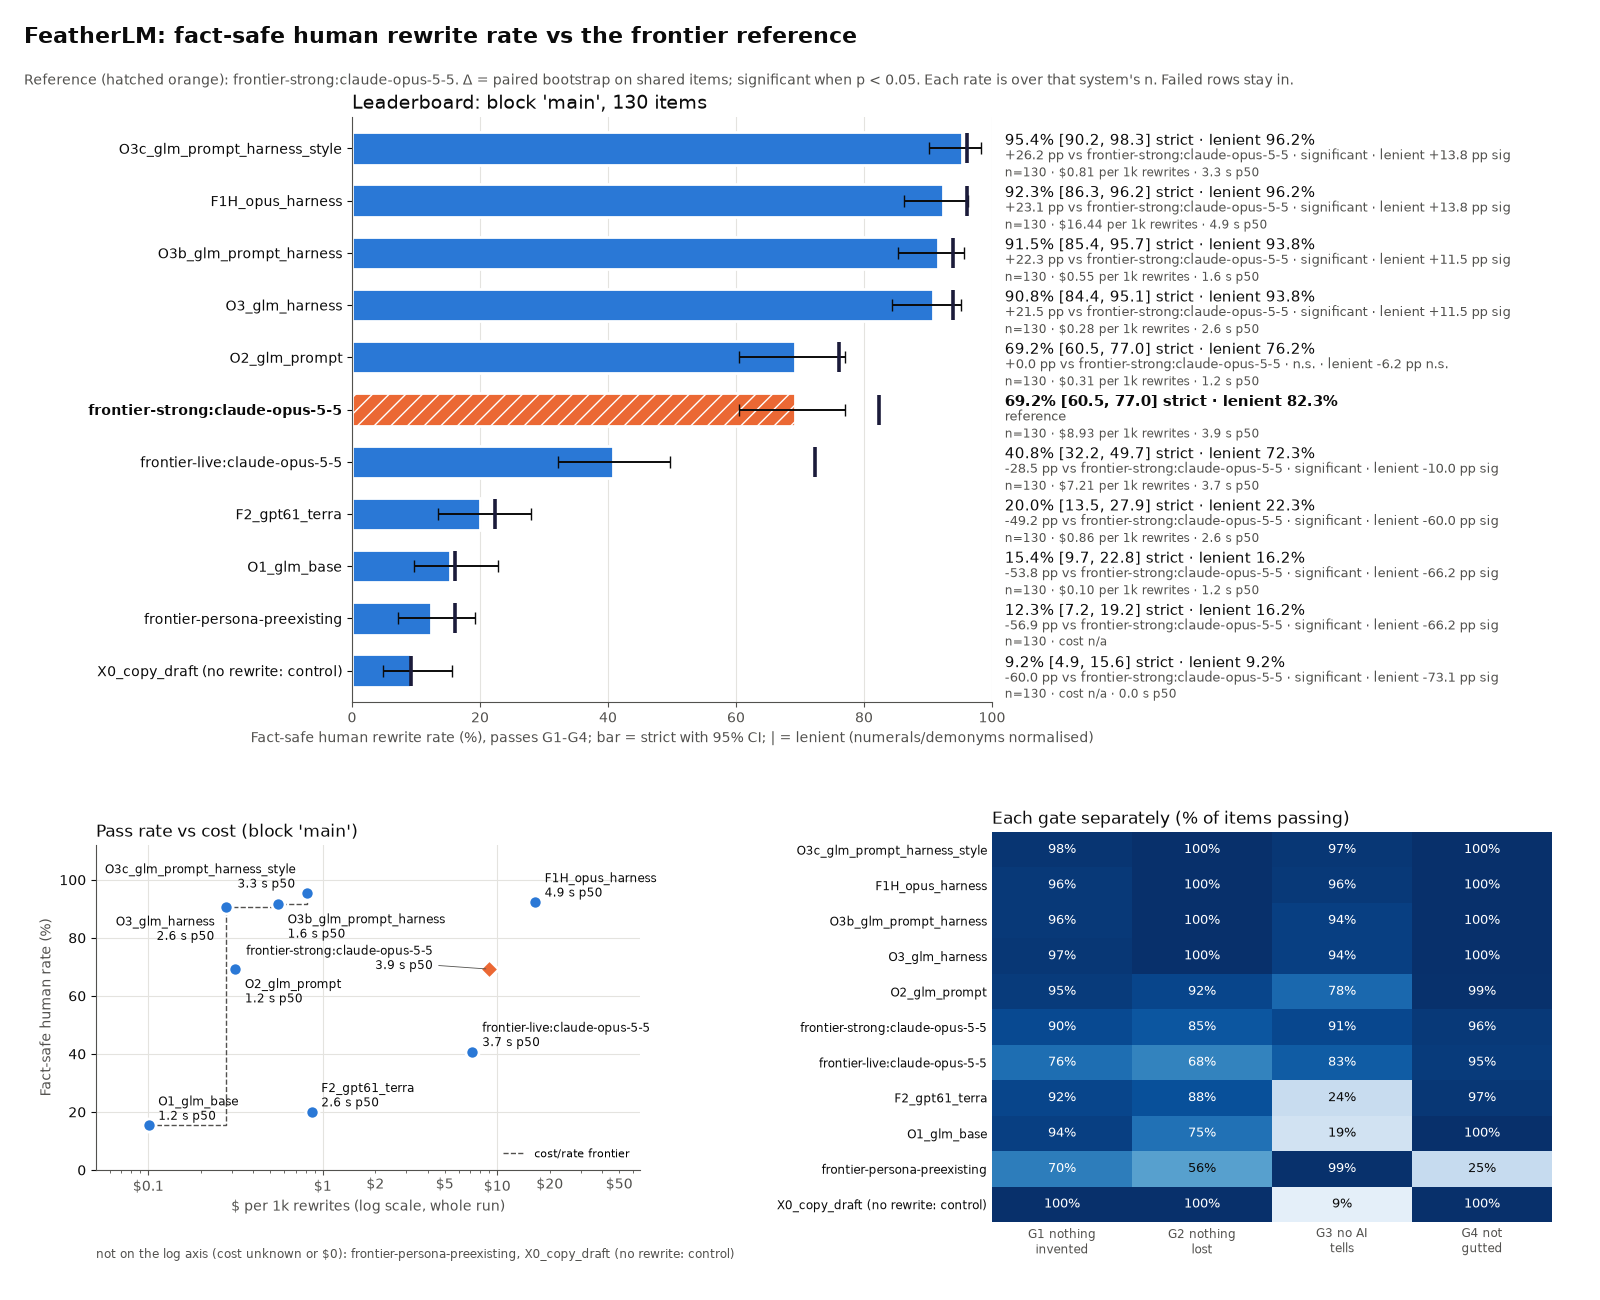
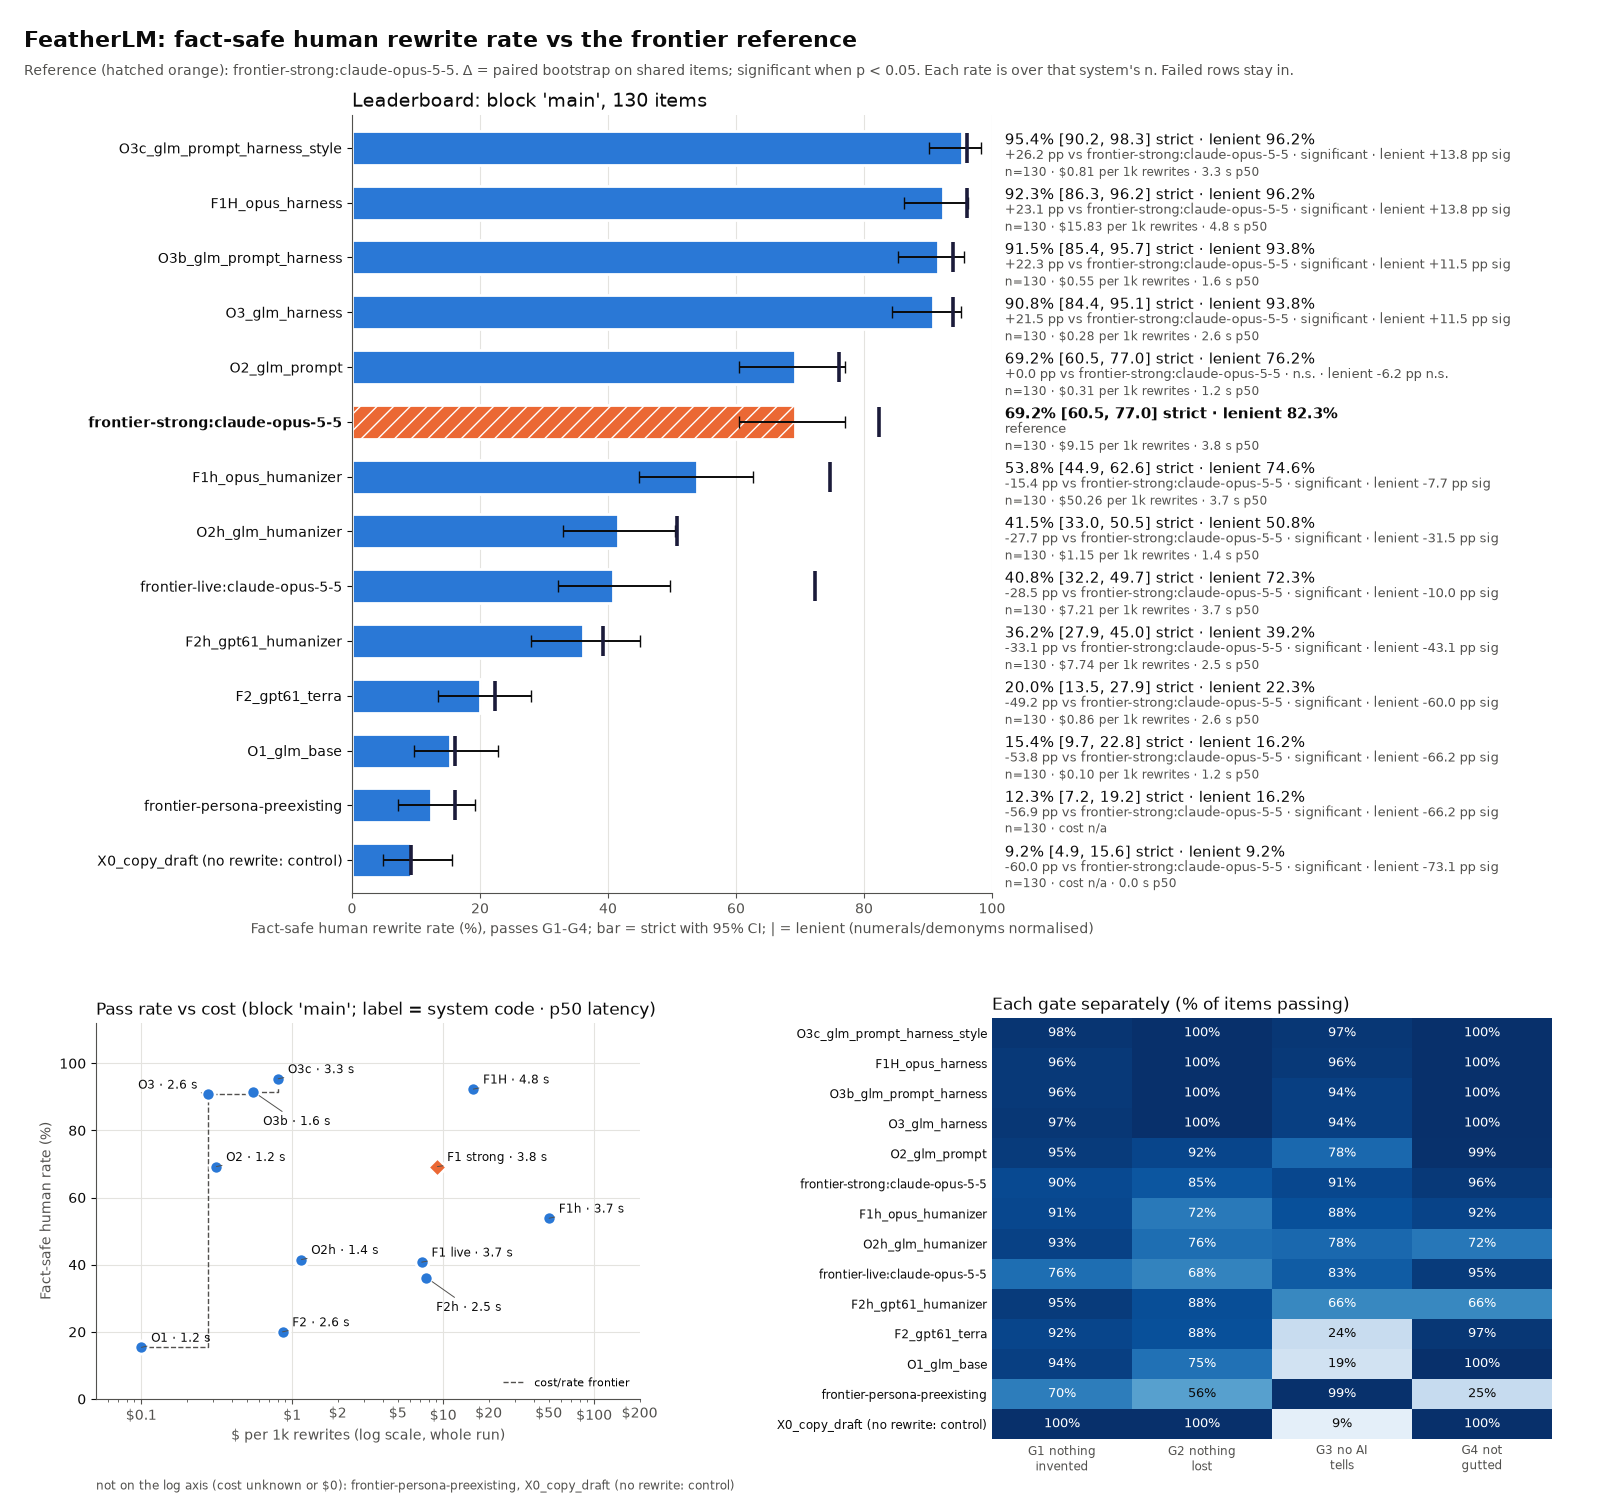
eval: leaderboard scales to 14+ systems; cost panel labels by system code
Figure height grows with the row count (no overlapping row notes). Cost
panel labels are short system codes with p50 latency, placed by measured
boxes with a leader line to each point. Adds leaderboard_real.png.

diff --git a/hackathon/eval/plot.py b/hackathon/eval/plot.py
@@ -178,30 +178,57 @@ def _leaderboard(ax, rows: list[tuple], name: str, n_items, notes: dict[str, str
     ax.set_axisbelow(True)
 
 
-# Label positions tried in order (offset in points, alignment); far ones get a leader line.
-_SPOTS = [(7, 4, "left"), (-8, 4, "right"), (7, -24, "left"), (-8, -24, "right"), (12, 22, "left"),
-          (-12, 22, "right"), (16, -46, "left"), (-16, -46, "right"), (40, 0, "left"), (-40, 0, "right")]
+# Label positions tried in order (offset in points, alignment): four snug spots, then rings of 8 directions at
+# growing distance; ring spots get a leader line.
+_SNUG = [(7, 4, "left"), (-8, 4, "right"), (7, -24, "left"), (-8, -24, "right")]
+_RINGS = [(round(d * math.cos(t)), round(d * math.sin(t)) - 8, "left" if math.cos(t) >= 0 else "right")
+          for d in (34, 56, 80) for t in [k * math.pi / 4 for k in (0, 4, 1, 3, 7, 5, 2, 6)]]
+_SPOTS = _SNUG + _RINGS
+
+
+def short(label: str) -> str:
+    """Point label on the cost panel: the system code ('O3c', 'F1H', 'X0'), or 'F1 strong' / 'F1 live' / 'persona'."""
+    if label.startswith("frontier-"):
+        kind = label.split(":")[0].removeprefix("frontier-")
+        return {"strong": "F1 strong", "live": "F1 live", "persona-preexisting": "persona"}.get(kind, kind)
+    return label.split("_")[0].split(" ")[0]
+
+
+def _area(a: Bbox, b: Bbox) -> float:
+    w = min(a.x1, b.x1) - max(a.x0, b.x0)
+    h = min(a.y1, b.y1) - max(a.y0, b.y0)
+    return w * h if w > 0 and h > 0 else 0.0
 
 
 def _place_labels(ax, points: list[tuple]) -> None:
-    """Greedy: highest rate first, each label at the first spot whose box hits no earlier label and no point."""
+    """Greedy: highest rate first, each label at the first spot whose box hits no earlier label, no point and stays
+    inside the axes; if none is free, the spot with the least overlap."""
     r = ax.figure.canvas.get_renderer()
+    frame = ax.get_window_extent(r)
     pts = [Bbox.from_bounds(x - 7, y - 7, 14, 14) for x, y in ax.transData.transform([(p[1], p[2]) for p in points])]
     boxes = []
     for lab, cost, rate, p50, is_ref in sorted(points, key=lambda p: (-p[2], p[1])):
-        txt = lab + (f"\n{p50:.1f} s p50" if p50 is not None else "")
+        txt = short(lab) + (f" · {p50:.1f} s" if p50 is not None else "")
+        best = None
         for i, (dx, dy, ha) in enumerate(_SPOTS):
             a = ax.annotate(txt, (cost, rate), xytext=(dx, dy), textcoords="offset points", ha=ha, fontsize=8.5,
-                            color=INK, arrowprops=dict(arrowstyle="-", color=INK2, lw=0.6) if i >= 4 else None)
+                            color=INK, arrowprops=dict(arrowstyle="-", color=INK2, lw=0.7, shrinkA=1, shrinkB=5))
             bb = a.get_window_extent(r).expanded(1.03, 1.08)
-            if i == len(_SPOTS) - 1 or not any(bb.overlaps(b) for b in boxes + pts):
-                boxes.append(bb)
+            clash = sum(_area(bb, o) for o in boxes + pts) + bb.width * bb.height - _area(bb, frame)
+            if best is None or clash < best[0]:  # keep only the best try so far on the axes
+                if best is not None:
+                    best[1].remove()
+                best = (clash, a, bb)
+            else:
+                a.remove()
+            if clash == 0:
                 break
-            a.remove()
+        boxes.append(best[2])
 
 
 def _pareto(ax, points: list[tuple], no_cost: list[str], name: str) -> None:
-    ax.set_title(f"Pass rate vs cost (block '{name}')", loc="left", fontsize=12, color=INK)
+    ax.set_title(f"Pass rate vs cost (block '{name}'; label = system code · p50 latency)", loc="left", fontsize=12,
+                 color=INK)
     ax.set_ylabel("Fact-safe human rate (%)")
     ax.set_xlabel("$ per 1k rewrites (log scale, whole run)")
     if points:
@@ -228,7 +255,8 @@ def _pareto(ax, points: list[tuple], no_cost: list[str], name: str) -> None:
     ax.grid(color=GRID, zorder=0)
     ax.set_axisbelow(True)
     if no_cost:
-        ax.text(0, -0.24, "not on the log axis (cost unknown or $0): " + ", ".join(no_cost), transform=ax.transAxes, fontsize=8.5,
+        ax.text(0, 0, "not on the log axis (cost unknown or $0): " + ", ".join(no_cost), fontsize=8.5,
+                transform=offset_copy(ax.transAxes, fig=ax.figure, y=-58, units="points"),
                 color=INK2, va="top", wrap=True)
 
 
@@ -255,19 +283,24 @@ def render(res: dict, name: str, out: str) -> str:
                          "xtick.color": INK2, "ytick.color": INK, "axes.spines.top": False,
                          "axes.spines.right": False})
     # Leaderboard across the top with its notes in a wide right-hand column; Pareto and gates share the bottom row.
-    fig = plt.figure(figsize=(16, 13), dpi=100, facecolor="white")
+    # Heights in inches grow with the row count so three-line row notes never touch: top, board, gap, bottom, margin.
+    n = max(len(rows), 1)
+    top, board, gap, bottom, margin = 1.15, max(4.2, 0.52 * n + 0.5), 1.3, max(3.0, 0.24 * n + 0.4), 1.0
+    H = top + board + gap + bottom + margin
+    fig = plt.figure(figsize=(16, H), dpi=100, facecolor="white")
     meta = {s.get("label"): s for s in res.get("systems") or []}
     notes = {e.get("label"): coverage_note(e, b.get("n_items", "?")) + " · " + cost_note(meta.get(e.get("label")) or {})
              for e in b["systems"]}
     lenient = {e.get("label"): lenient_bits(e) for e in b["systems"] if lenient_bits(e)[0] is not None}
-    _leaderboard(fig.add_axes((0.22, 0.46, 0.40, 0.45)), rows, name, b.get("n_items", "?"), notes, lenient)
-    _pareto(fig.add_axes((0.06, 0.10, 0.34, 0.25)), points, no_cost, name)
-    _gates(fig.add_axes((0.62, 0.06, 0.35, 0.30)), *gate_rows(b))
-    fig.suptitle("FeatherLM: fact-safe human rewrite rate vs the frontier reference", x=0.015, ha="left",
-                 fontsize=16, fontweight="bold", color=INK)
+    _leaderboard(fig.add_axes((0.22, (margin + bottom + gap) / H, 0.40, board / H)), rows, name,
+                 b.get("n_items", "?"), notes, lenient)
+    _pareto(fig.add_axes((0.06, margin / H, 0.34, bottom / H)), points, no_cost, name)
+    _gates(fig.add_axes((0.62, (margin - 0.4) / H, 0.35, (bottom + 0.45) / H)), *gate_rows(b))
+    fig.suptitle("FeatherLM: fact-safe human rewrite rate vs the frontier reference", x=0.015, y=1 - 0.3 / H,
+                 ha="left", fontsize=16, fontweight="bold", color=INK)
     ref_line = (f"Reference (hatched orange): {ref}." if any(r[5] for r in rows)
                 else f"Reference {ref} is not in this block, so no Δ is shown.")
-    fig.text(0.015, 0.935, ref_line + " Δ = paired bootstrap on shared items; significant when p < 0.05. "
+    fig.text(0.015, 1 - 0.75 / H, ref_line + " Δ = paired bootstrap on shared items; significant when p < 0.05. "
              "Each rate is over that system's n. Failed rows stay in.", fontsize=10, color=INK2)
     os.makedirs(os.path.dirname(os.path.abspath(out)), exist_ok=True)
     fig.savefig(out, dpi=100, facecolor="white")

diff --git a/hackathon/eval/test_plot.py b/hackathon/eval/test_plot.py
@@ -71,6 +71,12 @@ class TestNotes(unittest.TestCase):
         self.assertAlmostEqual(r, 98.0)
         self.assertEqual((head, delta), (" · lenient 98.0%", " · lenient +13.2 pp sig"))
 
+    def test_short_labels(self):
+        self.assertEqual([pl.short(x) for x in ("O3c_glm_prompt_harness_style", "F1H_opus_harness", "F1h_opus_humanizer",
+                                                 "frontier-strong:claude-opus-5-5", "frontier-live:claude-opus-5-5",
+                                                 "frontier-persona-preexisting", "X0_copy_draft (no rewrite: control)")],
+                         ["O3c", "F1H", "F1h", "F1 strong", "F1 live", "persona", "X0"])
+
     def test_cost_note(self):
         self.assertEqual(pl.cost_note({"cost_per_1k_usd": 8.925, "latency_ms": {"p50": 3867.0}}),
                          "$8.93 per 1k rewrites · 3.9 s p50")
